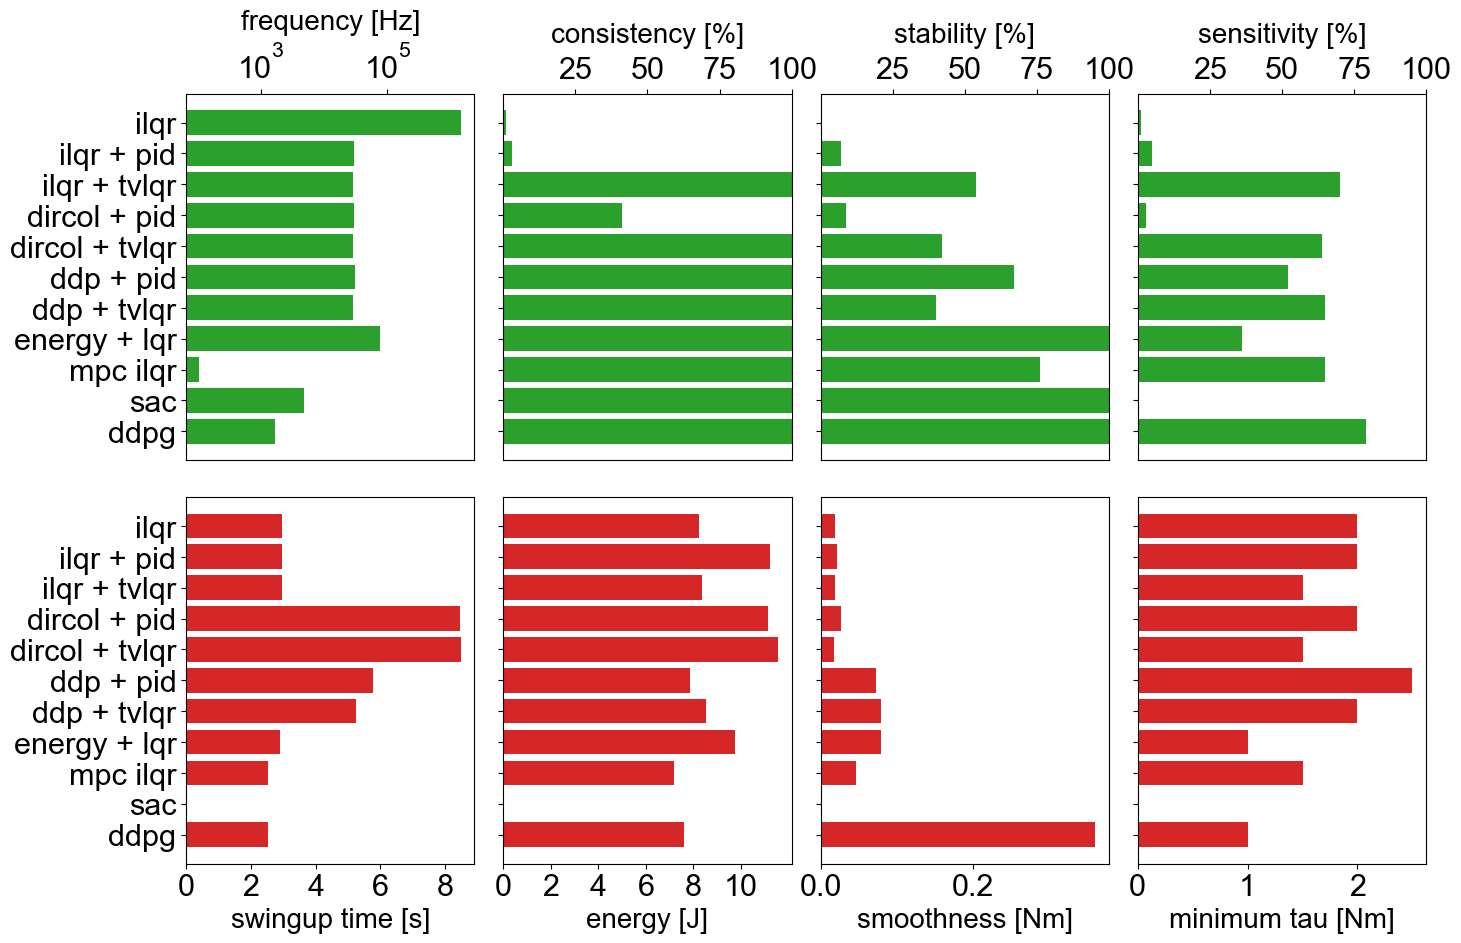
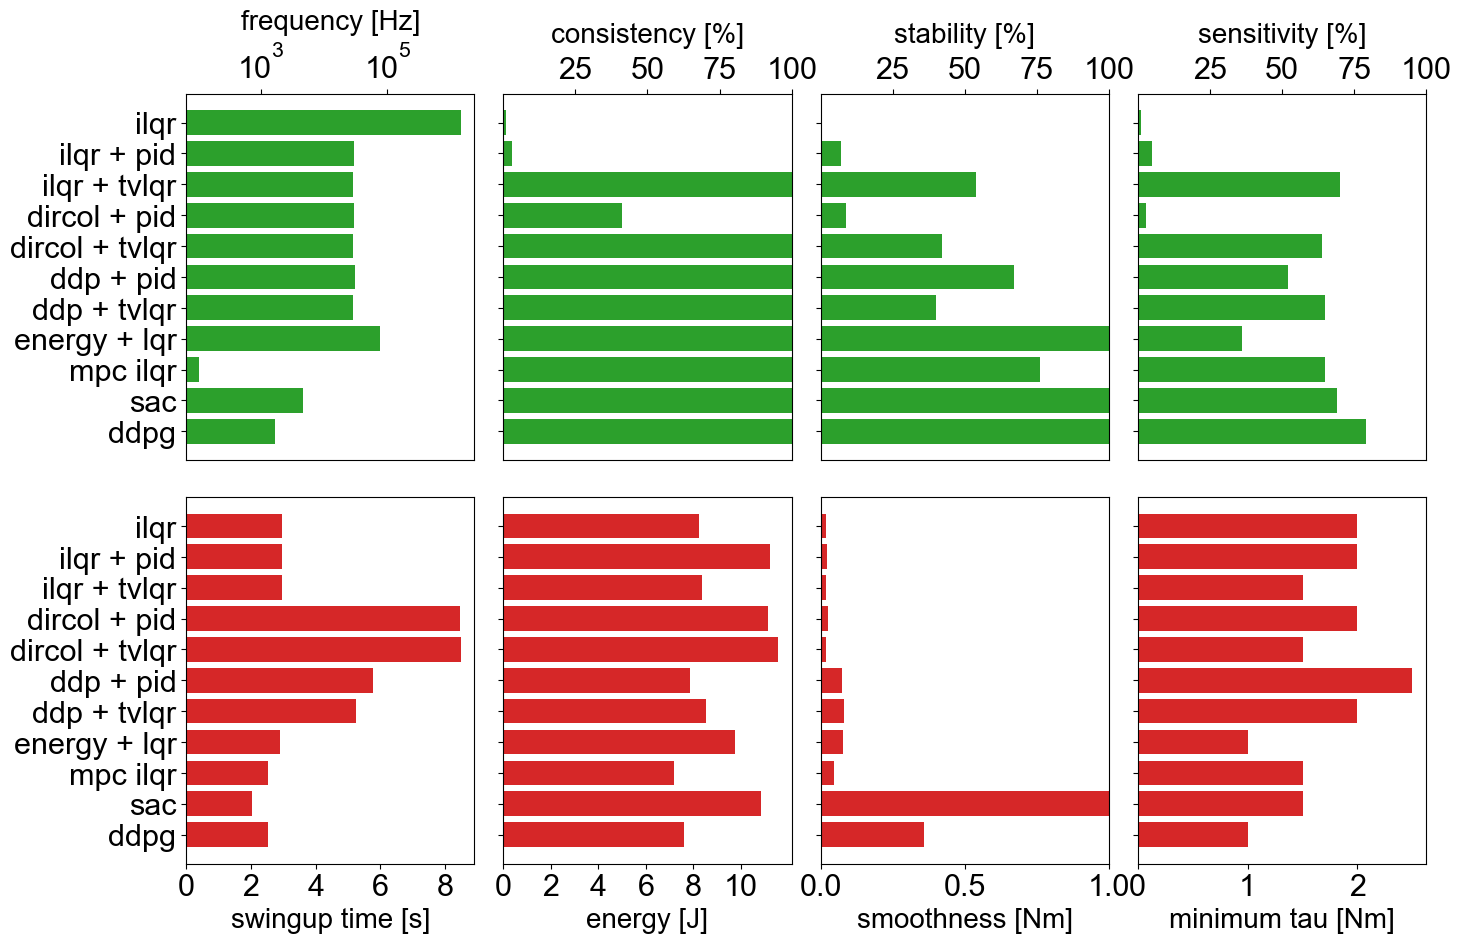
new controller overview and benchmark figures
Former-commit-id: 3891d6a882b37523969e357a7d6243a5d583c6ca

diff --git a/software/python/examples/compute_dircol_swingup.py b/software/python/examples/compute_dircol_swingup.py
@@ -4,9 +4,10 @@ import matplotlib.pyplot as plt
 from simple_pendulum.trajectory_optimization.direct_collocation.direct_collocation import DirectCollocationCalculator
 from simple_pendulum.model.pendulum_plant import PendulumPlant
 from simple_pendulum.simulation.simulation import Simulator
-from simple_pendulum.controllers.open_loop.open_loop import OpenLoopController,\
+from simple_pendulum.controllers.open_loop.open_loop import OpenLoopController, \
                                                             OpenLoopAndLQRController
 from simple_pendulum.controllers.pid.pid import PIDController
+from simple_pendulum.controllers.tvlqr.tvlqr import TVLQRController
 from simple_pendulum.utilities.process_data import prepare_trajectory
 
 
@@ -16,7 +17,7 @@ length = 0.5
 damping = 0.10
 gravity = 9.81
 coulomb_fric = 0.0
-torque_limit = 2.5
+torque_limit = 1.5
 
 # swingup parameters
 x0 = [0.0, 0.0]
@@ -86,11 +87,14 @@ csv_path = "../../../data/trajectories/direct_collocation/trajectory.csv"
 data_dict = prepare_trajectory(csv_path)
 
 # controller = OpenLoopController(data_dict=data_dict)
-controller = PIDController(data_dict=data_dict, Kp=3.0, Ki=1.0, Kd=1.0)
-
+# controller = PIDController(data_dict=data_dict, Kp=3.0, Ki=1.0, Kd=1.0)
+controller = TVLQRController(data_dict=data_dict, mass=mass, length=length,
+                             damping=damping, gravity=gravity,
+                             torque_limit=torque_limit)
+controller.set_goal(goal)
 trajectory = np.loadtxt(csv_path, skiprows=1, delimiter=",")
 dt = trajectory[1][0] - trajectory[0][0]
-t_final = trajectory[-1][0] + 1.0
+t_final = trajectory[-1][0] + 0.0
 
 x0 = [trajectory[0][1], trajectory[0][2]]
 

diff --git a/software/python/examples/compute_iLQR_swingup.py b/software/python/examples/compute_iLQR_swingup.py
@@ -16,6 +16,7 @@ from simple_pendulum.model.pendulum_plant import PendulumPlant
 from simple_pendulum.simulation.simulation import Simulator
 from simple_pendulum.utilities.process_data import prepare_trajectory
 from simple_pendulum.controllers.open_loop.open_loop import OpenLoopController
+from simple_pendulum.controllers.tvlqr.tvlqr import TVLQRController
 
 
 # pendulum parameters
@@ -54,7 +55,7 @@ if n_x == 2:
     fCen = 0.0
 if n_x == 3:
     N = 300
-    sCu = 10.0
+    sCu = 30.0
     sCp = 10.0
     sCv = 20.0
     sCen = 0.0
@@ -127,7 +128,7 @@ iLQR.set_start(x0)
 # save results
 time = np.linspace(0, N-1, N)*dt
 if n_x == 3:
-    TH = np.arctan2(x_trj.T[0], x_trj.T[1])
+    TH = np.arctan2(x_trj.T[1], x_trj.T[0])
     THD = x_trj.T[2]
 else:
     TH = x_trj.T[0]
@@ -212,7 +213,10 @@ sim = Simulator(plant=pendulum)
 
 data_dict = prepare_trajectory(csv_path)
 
-controller = OpenLoopController(data_dict)
+#controller = OpenLoopController(data_dict)
+controller = TVLQRController(data_dict=data_dict, mass=mass, length=length,
+                             damping=damping, gravity=gravity,
+                             torque_limit=torque_limit)
 
 controller.set_goal([np.pi, 0])
 
